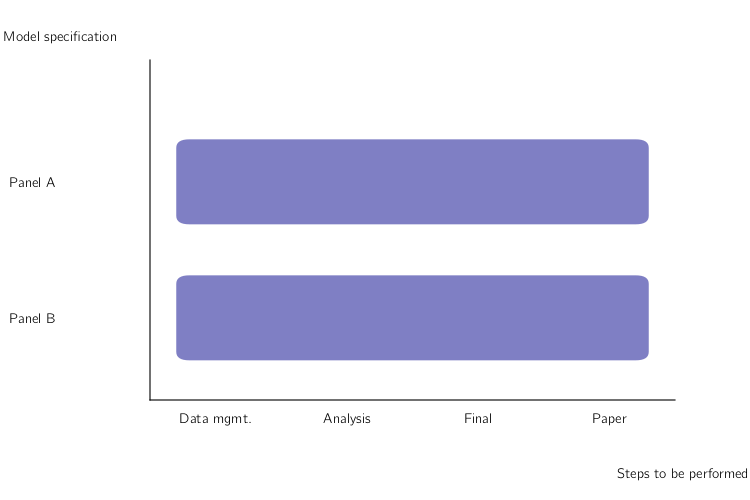
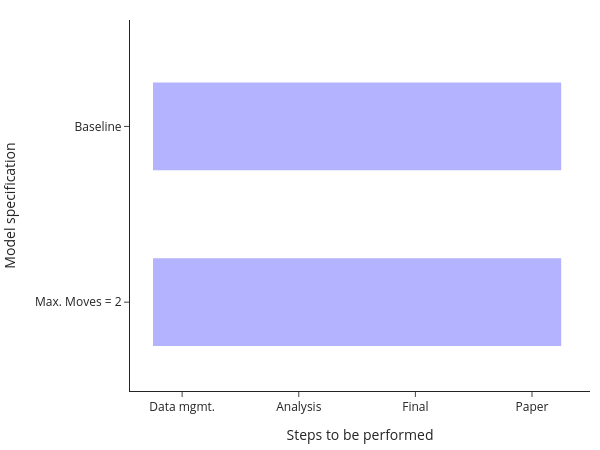
Update example in documentation

diff --git a/docs/bld/example/python/python_example/src/final/task_plot_locations.py b/docs/bld/example/python/python_example/src/final/task_plot_locations.py
@@ -1,43 +1,84 @@
+import itertools
 import pickle
 
-import matplotlib
 import numpy as np
+import plotly.graph_objects as go
 import pytask
+from plotly.subplots import make_subplots
 
 from src.config import BLD
-
-matplotlib.use("TkAgg")
-import matplotlib.pyplot as plt
-
-
-PLOT_ARGS = {"markersize": 4, "alpha": 0.6}
 
 
 def plot_locations(locations_by_round, path):
     "Plot the distribution of agents after cycle_num rounds of the loop."
     n_cycles = len(locations_by_round)
     nrows = int(np.ceil(n_cycles / 2 - 0.01))
-    figsize = (2 * 3, nrows * 2)
-    fig, axes = plt.subplots(nrows=nrows, ncols=2, figsize=figsize)
-    fig.subplots_adjust(
-        left=0.05, right=0.95, bottom=0.05, top=0.95, wspace=0.25, hspace=0.25
-    )
-    for item, ax in np.ndenumerate(axes):
-        n_cycle = item[0] * 2 + item[1]
-        if n_cycle == n_cycles:
-            # Remove last element if number of cycles is uneven
-            fig.delaxes(ax)
-            break
-        locs = locations_by_round[n_cycle]
-        ax.set_title(f"Cycle {n_cycle}")
-        ax.tick_params(labelbottom="off", labelleft="off")
-        ax.set_facecolor("azure")
-        ax.plot(
-            locs[0][:, 0], locs[0][:, 1], "o", markerfacecolor="orange", **PLOT_ARGS
-        )
-        ax.plot(locs[1][:, 0], locs[1][:, 1], "o", markerfacecolor="green", **PLOT_ARGS)
+    ncols = 2
+    # figure measurements are specified in pixels in plotly
+    width, height = (300 * ncols, 200 * nrows)
 
-    fig.savefig(path)
+    fig = make_subplots(
+        rows=nrows,
+        cols=ncols,
+        vertical_spacing=0.07,
+        horizontal_spacing=0.07,
+        subplot_titles=[f"Cycle {n}" for n in range(len(locations_by_round))],
+    )
+
+    for row, col in itertools.product(range(nrows), range(ncols)):
+        n_cycle = row * ncols + col
+        if n_cycle == n_cycles:
+            break
+
+        locs = locations_by_round[n_cycle]
+
+        for key, color in zip([0, 1], ["orange", "green"]):
+            data = go.Scatter(
+                x=locs[key][:, 0],
+                y=locs[key][:, 1],
+                mode="markers",
+                marker_size=5,
+                marker_color=color,
+                marker_line_color="black",
+                marker_line_width=0.5,
+                opacity=0.6,
+                showlegend=False,
+            )
+            # rows and cols are indexed starting from (1, 1) in plotly
+            fig = fig.add_trace(
+                data,
+                row=row + 1,
+                col=col + 1,
+            )
+
+    fig = fig.update_xaxes(
+        showline=True,
+        linecolor="black",
+        mirror=True,
+        dtick=0.25,
+    )
+
+    fig = fig.update_yaxes(
+        showline=True,
+        linecolor="black",
+        mirror=True,
+        dtick=0.25,
+    )
+
+    # subplot titles are defined as annotations
+    fig = fig.update_annotations(font_size=14)
+
+    fig = fig.update_layout(
+        margin_l=10,
+        margin_r=10,
+        margin_b=10,
+        margin_t=20,
+        width=width,
+        height=height,
+        plot_bgcolor="azure",
+        font_size=14,
+    )
+    fig.write_image(path)
 
 
 specifications = (

diff --git a/docs/bld/example/python/python_example/src/paper/task_paper.py b/docs/bld/example/python/python_example/src/paper/task_paper.py
@@ -1,27 +1,42 @@
+import shutil
+
 import pytask
 
 from src.config import BLD
+from src.config import ROOT
 from src.config import SRC
 
 
+documents = ["research_paper", "research_pres_30min"]
+
+
 @pytask.mark.latex(
-    ["--pdf", "--interaction=nonstopmode", "--synctex=1", "--cd", "--quiet"]
+    [
+        "--pdf",
+        "--interaction=nonstopmode",
+        "--synctex=1",
+        "--cd",
+        "--quiet",
+        "--shell-escape",
+    ]
 )
 @pytask.mark.parametrize(
     "depends_on, produces",
     [
-        (
-            [
-                SRC / "paper" / f"{document}.tex",
-                SRC / "paper" / "refs.bib",
-                SRC / "paper" / "formulas" / "decision_rule.tex",
-                BLD / "figures" / "schelling_baseline.png",
-                BLD / "figures" / "schelling_max_moves_2.png",
-            ],
-            BLD / "paper" / f"{document}.pdf",
-        )
-        for document in ["research_paper", "research_pres_30min"]
+        (SRC / "paper" / f"{document}.tex", BLD / "paper" / f"{document}.pdf")
+        for document in documents
     ],
 )
 def task_compile_documents():
     pass
+
+
+@pytask.mark.parametrize(
+    "depends_on, produces",
+    [
+        (BLD / "paper" / f"{document}.pdf", ROOT / f"{document}.pdf")
+        for document in documents
+    ],
+)
+def task_copy_to_root(depends_on, produces):
+    shutil.copy(depends_on, produces)

diff --git a/docs/src/python/organisation_model_steps.py b/docs/src/python/organisation_model_steps.py
@@ -26,7 +26,6 @@ def create_figure(case):
     # add shapes
     fig = update_fig_with_shape(case, fig)
 
-    # update axes
     fig.update_xaxes(
         tickvals=[1, 2, 3, 4],
         ticktext=["Data mgmt.", "Analysis", "Final", "Paper"],
@@ -38,7 +37,6 @@ def create_figure(case):
         title="Model specification",
     )
 
-    # update layout
     fig.update_layout(
         margin_l=10,
         margin_r=10,

diff --git a/docs/src/r/organisation_model_steps.py b/docs/src/r/organisation_model_steps.py
@@ -26,7 +26,6 @@ def create_figure(case):
     # add shapes
     fig = update_fig_with_shape(case, fig)
 
-    # update axes
     fig.update_xaxes(
         tickvals=[1, 2, 3, 4],
         ticktext=["Data mgmt.", "Analysis", "Final", "Paper"],
@@ -38,7 +37,6 @@ def create_figure(case):
         title="Model specification",
     )
 
-    # update layout
     fig.update_layout(
         margin_l=10,
         margin_r=10,

diff --git a/docs/bld/example/python/python_example/src/documentation/conf.py b/docs/bld/example/python/python_example/src/documentation/conf.py
@@ -30,6 +30,7 @@ extensions = [
     "sphinxcontrib.bibtex",
     "sphinx.ext.mathjax",
 ]
+bibtex_bibfiles = ["refs.bib"]
 
 # Add any paths that contain templates here, relative to this directory.
 templates_path = ["_templates"]

diff --git a/docs/bld/example/python/python_example/src/documentation/task_documentation.py b/docs/bld/example/python/python_example/src/documentation/task_documentation.py
@@ -7,7 +7,6 @@ from src.config import BLD
 from src.config import SRC
 
 
-@pytask.mark.skip
 @pytask.mark.depends_on(
     list(Path(__file__).parent.glob("*.rst")) + [SRC / "documentation" / "conf.py"]
 )

diff --git a/docs/bld/example/python/python_example/src/config.py b/docs/bld/example/python/python_example/src/config.py
@@ -1,5 +1,5 @@
 from pathlib import Path
 
-
+ROOT = Path(__file__).parent.parent
 SRC = Path(__file__).parent
-BLD = SRC.parent.joinpath("bld")
+BLD = ROOT / "bld"
